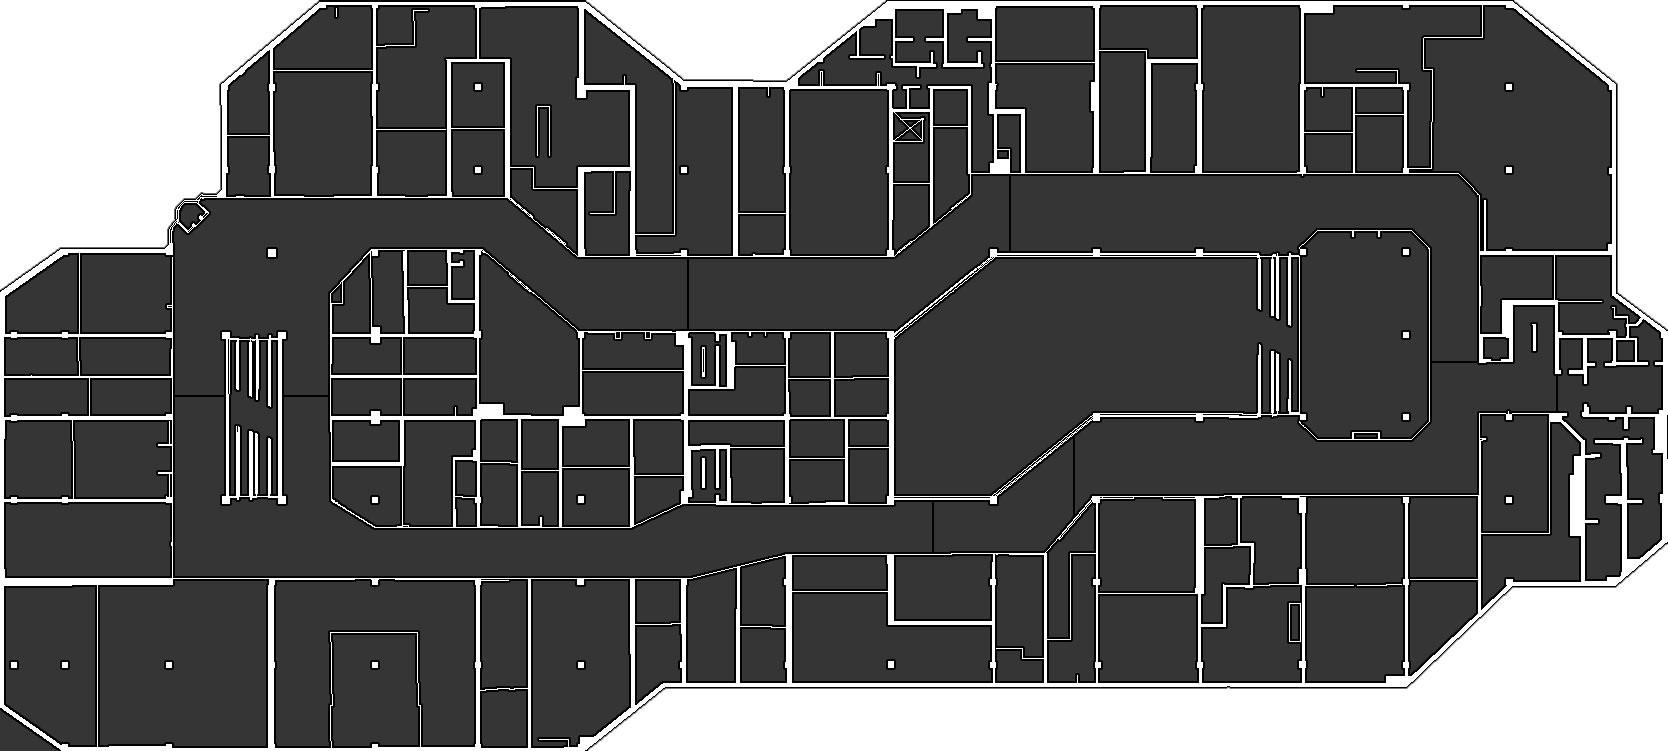
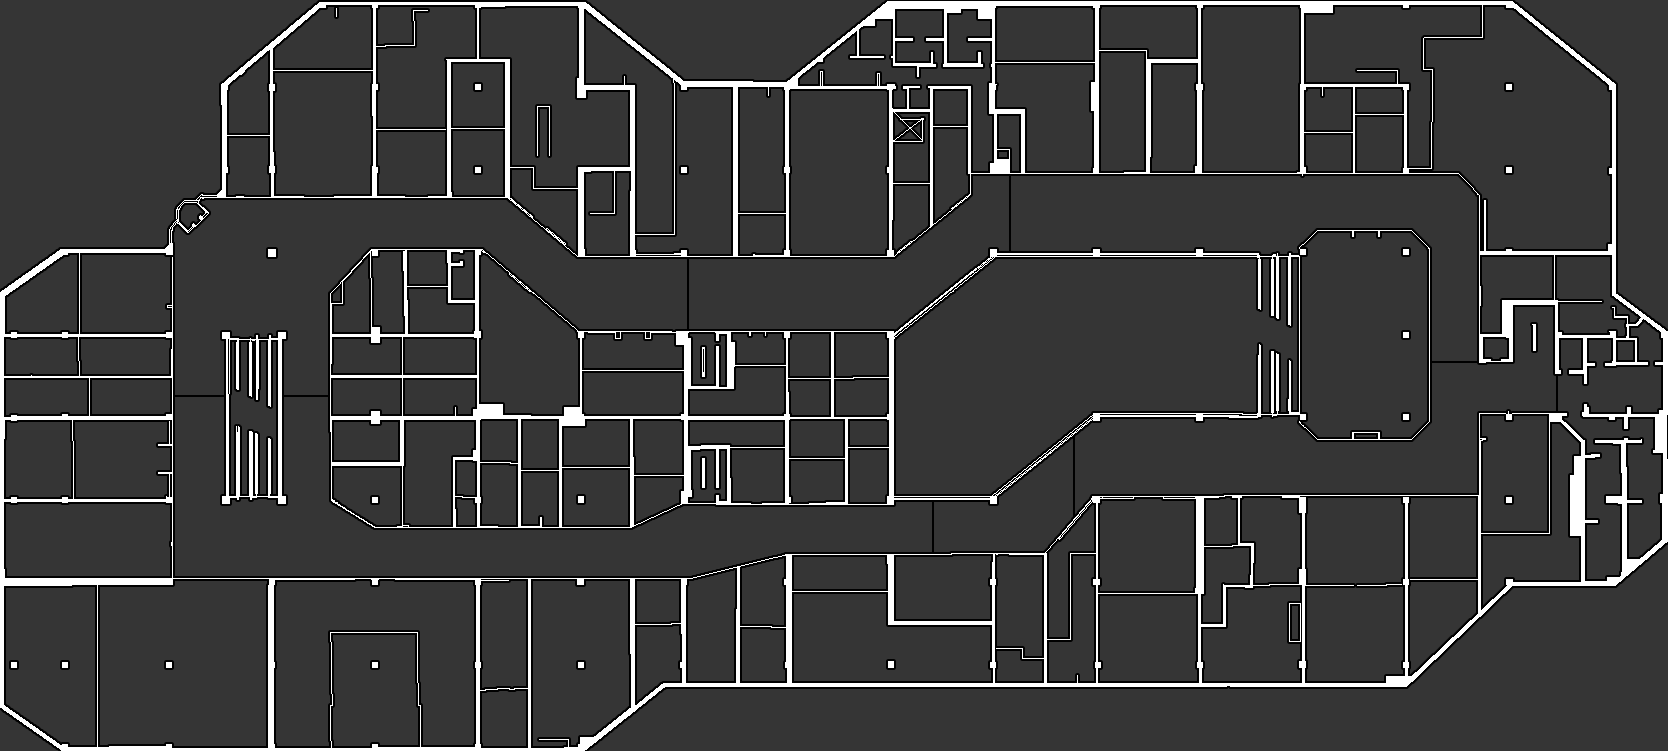
3pv

diff --git a/src/components/dashboard/OperationalFloorMap.tsx b/src/components/dashboard/OperationalFloorMap.tsx
@@ -103,6 +103,22 @@ const floorConfigs: FloorConfig[] = [
       bottomLabels: ["E", "F", "G", "H"].map((label, index) => ({ label, x: [185, 520, 920, 1300][index], y: 715 })),
     },
   },
+,
+  {
+    id: "third",
+    title: "3º Pavimento",
+    mapSrc: "/3pav_ok_2.png",
+    viewBox: "0 0 1680 784",
+    zones: [
+      { id: "E3", vavIds: ["vav_50"], maskSrc: "/zone-masks-v13/E3.png", label: { x: 300, y: 430 } },
+      { id: "F3", vavIds: ["vav_51"], maskSrc: "/zone-masks-v13/F3.png", label: { x: 560, y: 560 } },
+      { id: "G3", vavIds: ["vav_52"], maskSrc: "/zone-masks-v13/G3.png", label: { x: 980, y: 555 } },
+      { id: "G3-2", vavIds: ["vav_47"], maskSrc: "/zone-masks-v13/G3-2.png", label: { x: 1250, y: 470 } },
+      { id: "B3", vavIds: ["vav_49"], maskSrc: "/zone-masks-v13/B3.png", label: { x: 700, y: 260 } },
+      { id: "C3", vavIds: ["vav_48"], maskSrc: "/zone-masks-v13/C3.png", label: { x: 1040, y: 260 } },
+    ],
+  }
+
 ];
 
 const severityRank: Record<Severity, number> = {